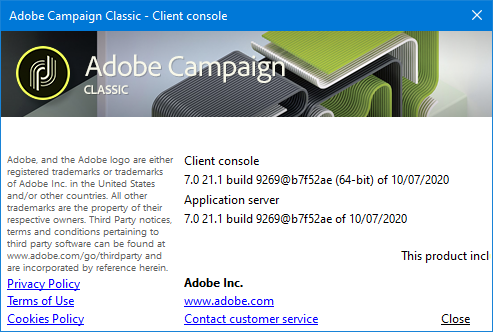
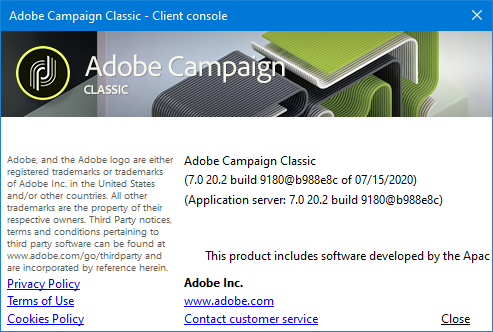
Update for GS

Changed region(s): [[0.3651, 0.4518, 0.9128, 0.6928], [0.3955, 0.753, 1.0, 0.7831]]

diff --git a/help/platform/using/launching-adobe-campaign.md b/help/platform/using/launching-adobe-campaign.md
@@ -95,10 +95,14 @@ The **[!UICONTROL Help > About...]** menu lets you access the following informat
 
 Whenever you reach out to Adobe Support team, you need to provide the version number and build number of your Campaign client console and application server.
 
-If you are running on [Campaign Gold Standard version](../../rn/using/gold-standard.md), you also need to share the SHA/1 characters which are displayed in the **[!UICONTROL About]** box. As an example, for Gold **Standard 10 release**, the build number will show **build 9032&#64;efd8a94***. Learn more about Gold Standard [in this article](https://helpx.adobe.com/campaign/kb/gold-standard.html).
+If you are running on [Campaign Gold Standard version](../../rn/using/gold-standard.md), you also need to share the SHA/1 characters which are displayed in the **[!UICONTROL About]** box. As an example, for Gold **Standard 10 release**, the build number will show **build 9032&#64;efd8a94**, as shown below:
+
+![](assets/about-acc-gs.png)
+
+Learn more about Gold Standard [in this article](https://helpx.adobe.com/campaign/kb/gold-standard.html).
 
 **Related topics**:
 
 * [Campaign Support options](https://helpx.adobe.com/campaign/kb/ac-support.html#acc-support)
 * [Software Distribution](https://docs.adobe.com/content/help/en/experience-cloud/software-distribution/home.html)
-* [support and expert sessions](https://helpx.adobe.com/enterprise/admin-guide.html/enterprise/using/support-for-experience-cloud.ug.html)
+* [Experience Cloud Support and Expert sessions](https://helpx.adobe.com/enterprise/admin-guide.html/enterprise/using/support-for-experience-cloud.ug.html)
